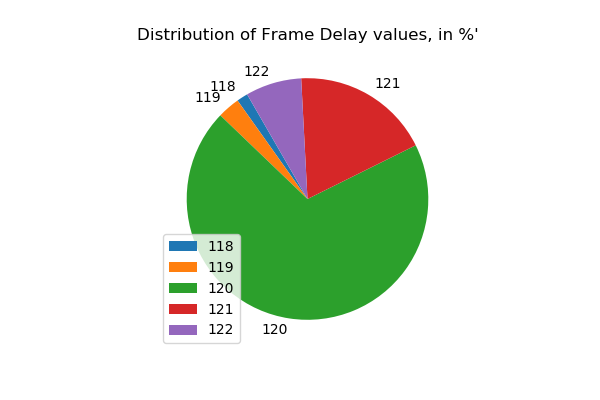
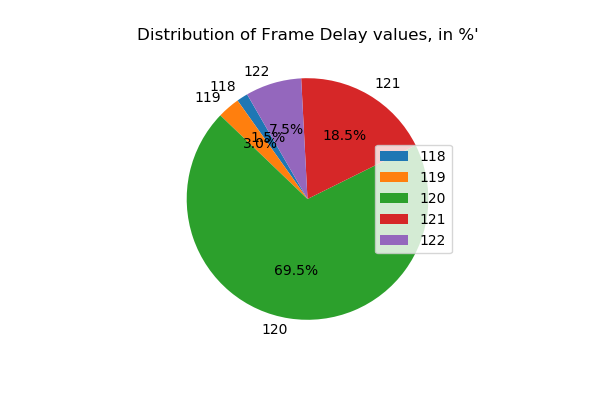
Change in matplotlib piechart creation logic. Add legends

diff --git a/ar_fps_post_statistics.py b/ar_fps_post_statistics.py
@@ -36,7 +36,7 @@ def add_all_runs_sheet(c_df, writer):
 
 
 def add_runs_without_outliers(c_df, writer, outlier_threshold=120):
-    no_outliers_df = c_df[c_df['AR_fps'] >= 120]
+    no_outliers_df = c_df[c_df['AR_fps'] >= outlier_threshold]
     no_outliers_df.to_excel(writer, sheet_name='Runs without outliers', index=False)
     return no_outliers_df
 
@@ -47,7 +47,7 @@ def add_runs_without_outliers(c_df, writer, outlier_threshold=120):
 
 
 def add_outlier_runs(c_df, writer, outlier_threshold=120):
-    with_outliers_df = c_df[c_df['AR_fps'] < 120]
+    with_outliers_df = c_df[c_df['AR_fps'] < outlier_threshold]
     with_outliers_df.to_excel(writer, sheet_name='Outlier runs', index=False)
     return with_outliers_df
 
@@ -87,7 +87,7 @@ def add_statistics(c_df, writer):
     return fps_stat_df
 
 
-# ## Sheet 5 - Analyze FPS values from all runs
+# ## Sheet 5 - Analyze AR_fps column from all runs
 
 # In[7]:
 
@@ -95,56 +95,6 @@ def add_statistics(c_df, writer):
 def fps_all_analysis(c_df, writer):
     curr_row = 0
     fps_col_series = c_df['AR_fps'].copy()
-        
-    # Convert the column to dataframe with unique values and their count
-    fps_unique_count_df = fps_col_series.value_counts().sort_index().to_frame('Count of frame delay')
-    fps_unique_count_df.rename_axis('Frame Delay', inplace=True)
-    fps_unique_count_df.to_excel(writer, sheet_name='Frame Delay-Allruns', index=True)
-    
-    # Get current sheet pointer for future writing
-    curr_sheet = writer.sheets['Frame Delay-Allruns']
-    
-    # Add grand total of runs
-    curr_row = len(fps_unique_count_df) + 2 # update current row val. +2 because, 1 for column names of the dataframe and 1 for next empty row
-    curr_sheet.cell(row=curr_row, column=1).value = 'Grand Total'
-    curr_sheet.cell(row=curr_row, column=2).value = fps_unique_count_df.sum()[0]
-    
-    # Add outlier vs non-outlier stats
-    curr_row = curr_row + 1 # update current row val
-    
-    outlier_stat_df = pd.DataFrame(columns=['Frames Delayed', 'Distribution of Frame Delay with all runs', 'in %'])
-    total_non_outliers = len(fps_col_series[fps_col_series[0] <= 4])
-    total_outliers = len(fps_col_series[fps_col_series[0] > 4])
-    total_sum = fps_unique_count_df.sum()[0]
-
-    outlier_stat_df.loc[0] = ['<=4', total_non_outliers, round((total_non_outliers*100)/total_sum, 2) ]
-    outlier_stat_df.loc[1] = ['>4', total_outliers, round((total_outliers*100)/total_sum, 2) ]
-    outlier_stat_df.loc[2] = ['total', total_sum, 100]
-    outlier_stat_df.to_excel(writer, sheet_name='Frame Delay-Allruns', startrow=curr_row, index=False)
-    
-    # Add 3D pie chart image on the excel sheet
-    data = outlier_stat_df['in %'].values.tolist()[:-1]
-    labels = ['<=4', '>4']
-    plt.title("Distribution of Frame Delay with all runs, in %'")
-    plt.pie(data, labels=labels, autopct='%1.1f%%', startangle=120, shadow=True)
-    piefile = f"{input_excel_name}_FrameDelayAnalysis.png"
-    plt.savefig(piefile, dpi = 75)
-    img = openpyxl.drawing.image.Image(piefile)
-    img.anchor = 'G4'
-    curr_sheet.add_image(img)
-    
-    plt.close('all')
-    print(f"Saved pie chart: {piefile}")
-
-
-# ## Sheet 6 - Analyze AR_fps column from all non-outlier runs
-
-# In[8]:
-
-
-def fps_no_outliers_analysis(no_outliers_df, writer):
-    curr_row = 0
-    fps_col_series = no_outliers_df['AR_fps'].copy()
     
     # Convert the column to dataframe with unique values and their count
     fps_unique_count_df = fps_col_series.value_counts().sort_index().to_frame()
@@ -152,10 +102,10 @@ def fps_no_outliers_analysis(no_outliers_df, writer):
     fps_unique_count_df.rename(columns={'AR_fps':'count'})
     fps_unique_count_df['% of FPS value Distribution'] = round(fps_col_series.value_counts(normalize=True)*100, 2)
     fps_unique_count_df.sort_index()
-    fps_unique_count_df.to_excel(writer, sheet_name='FPS-Runswithoutoutliers', index=True)
+    fps_unique_count_df.to_excel(writer, sheet_name='FPS_Distribution', index=True)
         
     # Get current sheet pointer for future writing
-    curr_sheet = writer.sheets['FPS-Runswithoutoutliers']
+    curr_sheet = writer.sheets['FPS_Distribution']
     
     # Add grand total of runs
     curr_row = len(fps_unique_count_df) + 2 # update current row val
@@ -167,10 +117,11 @@ def fps_no_outliers_analysis(no_outliers_df, writer):
     # Add 3D pie chart image on the excel sheet
     data = fps_unique_count_df['% of FPS value Distribution'].values.tolist()
     labels = fps_unique_count_df.index.values.tolist()
-    plt.title("Distribution of Frame Delay with non-outlier runs, in %'")
-    plt.pie(data, labels=labels, autopct='%1.1f%%', startangle=120)
-    piefile = f"{input_excel_name}_FrameDelayAnalysisNonOutliers.png"
-    plt.savefig(piefile, dpi = 75)
+    plt.title("Distribution of Frame Delay values, in %'")
+    patches = plt.pie(data, labels=labels, autopct='%1.1f%%', startangle=120)
+    plt.legend(labels, loc=5)
+    piefile = f"{final_excel_file}_FPS_Distribution.png"
+    plt.savefig(piefile, dpi = 100)
     img = openpyxl.drawing.image.Image(piefile)
     img.anchor = 'G4'
     curr_sheet.add_image(img)
@@ -181,19 +132,30 @@ def fps_no_outliers_analysis(no_outliers_df, writer):
 
 # # MAIN
 
-# In[9]:
+# In[8]:
 
 
 #main
 if is_interactive():
-    input_excel = 'consolidation_result.xlsx'
+    input_excel = 'input/consolidation_result_ARGlass_TypeA.xlsx'
 else:
     input_excel = sys.argv[1]
 
 # get the name of input excel file, discard the extension
-input_excel_name, _ = os.path.splitext(input_excel)
-excel_file = f'{input_excel_name}_post_analysis.xlsx'
-writer = pd.ExcelWriter(excel_file, engine='openpyxl')
+input_excel_name, _ = os.path.splitext(os.path.basename(input_excel))
+
+# Create output prerequisites.
+#1. check if output dir exists, if not create
+output_dir = 'output'
+if not os.path.isdir(output_dir):
+    os.mkdir(output_dir)
+# Create output file name 
+output_file_name = f'{input_excel_name}_post_analysis.xlsx'
+# Create output file path
+final_excel_file = os.path.join(output_dir,output_file_name)
+
+# Create ExcelWriter object to populate output excel file
+writer = pd.ExcelWriter(final_excel_file, engine='openpyxl')
 
 print(f"*** Working on folder: {input_excel} ***")
 
@@ -201,7 +163,7 @@ print(f"*** Working on folder: {input_excel} ***")
 c_df = pd.read_excel(input_excel, 0, index_col=None)
 
 
-# In[10]:
+# In[9]:
 
 
 ##### Add required sheets #######
@@ -231,16 +193,11 @@ print("DONE!\n")
 
 # Sheet 5 - Analyze frame delay column from all runs
 print("Working on Sheet 5 - Analyze frame delay column from all runs")
-#fps_all_analysis(c_df, writer)
-print("DONE!\n")
-
-# Sheet 6 - Analyze frame delay distribution of non-outlier runs
-print("Working on Sheet 6 - Analyze frame delay distribution of non-outlier runs")
-fps_no_outliers_analysis(no_outliers_df, writer)
+fps_all_analysis(c_df, writer)
 print("DONE!\n")
 
 # Final step. Save the Excel writer object and close it
-print(f"Consolidating all sheets in final Excel: {excel_file}")
+print(f"Consolidating all sheets in final Excel: {final_excel_file}")
 writer.save()
 writer.close()
 print("DONE!")
